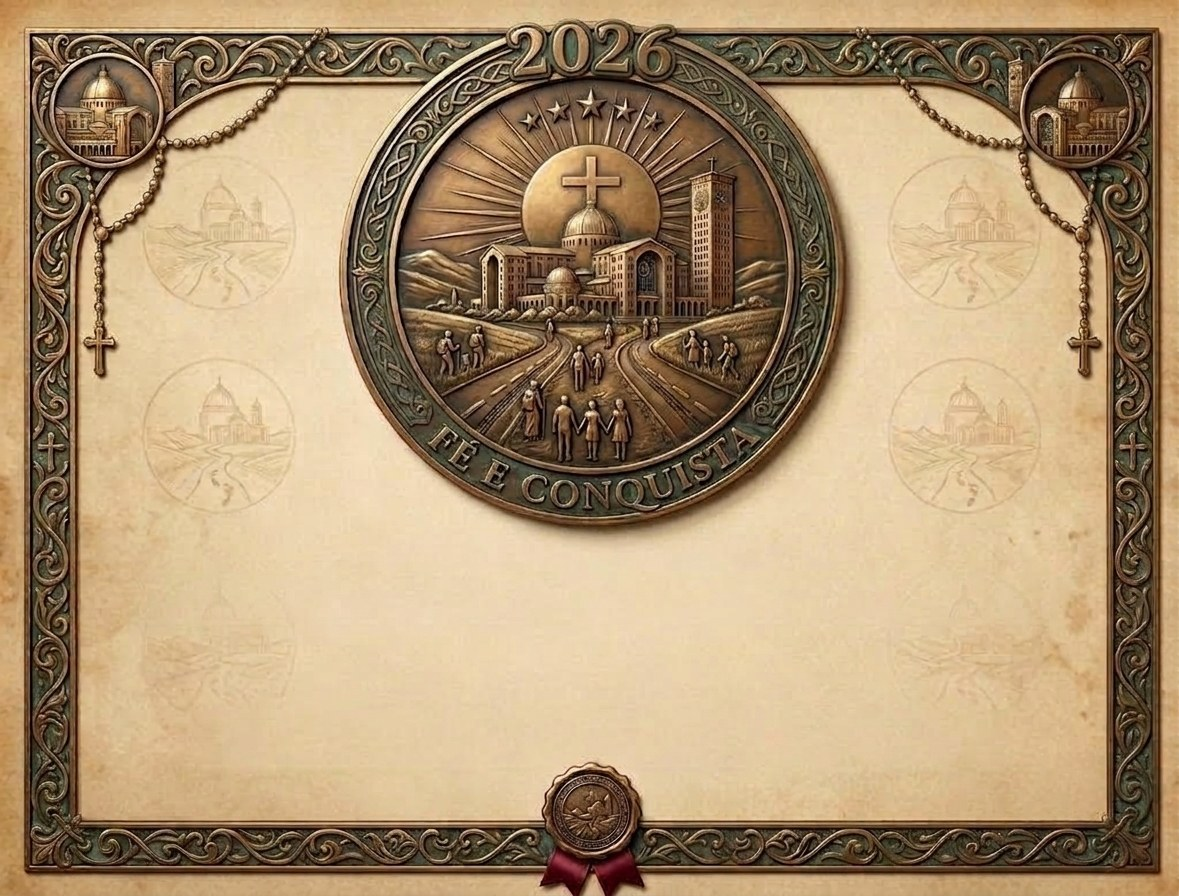
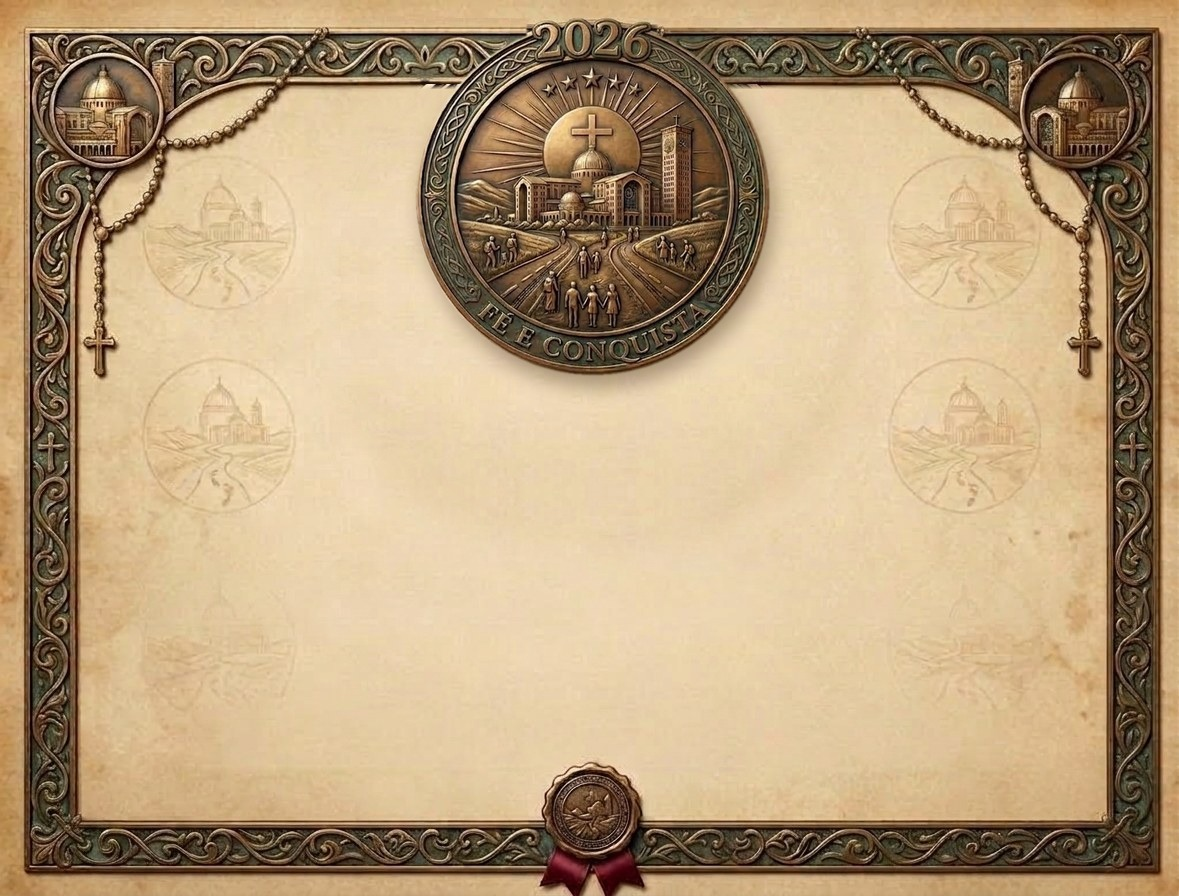
Add files via upload

Changed region(s): [[0.2748, 0.0, 0.7328, 0.625]]

diff --git a/src/components/CertificadoView.tsx b/src/components/CertificadoView.tsx
@@ -2,7 +2,7 @@
 
 import { useRef, useState } from "react";
 import { Printer, Download, FileText } from "lucide-react";
-import { MEIO_TRANSPORTE_LABELS } from "@/lib/constants";
+import { meioNaFrase, nomeNoCertificado, checkinsNoCertificado } from "@/lib/certificado-texto";
 import type { Certificado } from "@/types/database";
 
 // Proporção real da imagem-modelo (public/certificado/modelo-certificado.jpg),
@@ -27,35 +27,13 @@ export default function CertificadoView({ certificado: c }: { certificado: Certi
   const [gerandoPdf, setGerandoPdf] = useState(false);
   const [erro, setErro] = useState<string | null>(null);
 
-  const meioLabel =
-    c.meio_transporte === "outros"
-      ? c.meio_transporte_outro_desc || "outro meio de transporte"
-      : c.meio_transporte
-        ? MEIO_TRANSPORTE_LABELS[c.meio_transporte]
-        : "a pé";
-
-  // Até a Rodada 22, isto vinha de uma extração por regex de rota_nome
-  // ("Nome da rota (Origem → Aparecida)") que já não batia com nenhum
-  // certificado desde a Rodada 10, quando nomeRota() passou a mostrar só o
-  // nome da rota, sem essa parte entre parênteses — na prática, "origem"
-  // sempre dava null e a frase caía sempre no "até..." sem "de [origem]".
-  // Rodada 23: c.origem é a cidade de origem declarada pelo peregrino,
-  // gravada direto no certificado no momento da emissão.
+  // Rodada 58 — texto no formato pedido pelo usuário: "concluiu com êxito,
+  // nesta data, sua peregrinação (meio) até a Basílica..., saindo de
+  // (origem) no dia (data), com (x) check-in(s) ... e um tempo total de (tempo)."
+  const meio = meioNaFrase(c.meio_transporte, c.meio_transporte_outro_desc);
   const origem = c.origem;
   const dataInicio = formatarData(c.data_inicio);
-  const dataFim = formatarData(c.data_fim);
-  const mesmoDia = !!(c.data_inicio && c.data_fim && dataInicio === dataFim);
-
-  const trajetoTexto = origem ? `de ${origem} até` : "até";
-
-  let periodoTexto: string;
-  if (mesmoDia && dataInicio) {
-    periodoTexto = `no dia ${dataInicio}`;
-  } else if (dataInicio && dataFim) {
-    periodoTexto = `no período de ${dataInicio} a ${dataFim}${c.duracao_texto ? ` (${c.duracao_texto})` : ""}`;
-  } else {
-    periodoTexto = c.duracao_texto ? `em ${c.duracao_texto}` : "";
-  }
+  const checkins = checkinsNoCertificado(c.total_checkins);
 
   function imprimir() {
     // Marca só este certificado (útil quando há vários na mesma página) para
@@ -133,31 +111,36 @@ export default function CertificadoView({ certificado: c }: { certificado: Certi
 
         <div
           className="absolute flex flex-col items-center justify-center text-center"
-          style={{ top: "61%", bottom: "15%", left: "10%", right: "10%" }}
+          style={{ top: "44%", bottom: "13%", left: "10%", right: "10%" }}
         >
           <p
             className="text-neutral-600"
-            style={{ fontSize: "2.1cqw", letterSpacing: "0.05em" }}
+            style={{ fontSize: "2.3cqw", letterSpacing: "0.05em" }}
           >
             Certificamos que
           </p>
           <p
             className="font-serif font-bold text-neutral-900"
-            style={{ fontSize: "4cqw", lineHeight: 1.15, margin: "0.3cqw 0" }}
+            style={{ fontSize: "4.2cqw", lineHeight: 1.15, margin: "0.4cqw 0 1cqw", letterSpacing: "0.02em" }}
           >
-            {c.nome_peregrino}
+            {nomeNoCertificado(c.nome_peregrino)}
           </p>
           <p
             className="text-justify text-neutral-700"
-            style={{ fontSize: "1.9cqw", lineHeight: 1.35, maxWidth: "95%" }}
+            style={{ fontSize: "2.1cqw", lineHeight: 1.45, maxWidth: "95%" }}
           >
-            concluiu {meioLabel} sua peregrinação {trajetoTexto} a Basílica de
-            Nossa Senhora Aparecida-SP {periodoTexto}, com{" "}
-            <strong>{c.total_checkins}</strong> check-in(s) confirmados ao
-            longo da rota
-            {c.distancia_km != null && (
+            concluiu com êxito, nesta data, sua peregrinação{meio ? ` ${meio}` : ""} até a Basílica de
+            Nossa Senhora Aparecida-SP
+            {origem && (
               <>
-                , percorrendo aproximadamente <strong>{c.distancia_km} km</strong>
+                , saindo de <strong>{origem}</strong>
+              </>
+            )}
+            {dataInicio && <> no dia {dataInicio}</>}, com <strong>{checkins}</strong> check-in(s) confirmados
+            ao longo da rota
+            {c.duracao_texto && (
+              <>
+                {" "}e um tempo total de <strong>{c.duracao_texto}</strong>
               </>
             )}
             .

diff --git a/src/components/CertificadoGratuitoView.tsx b/src/components/CertificadoGratuitoView.tsx
@@ -3,7 +3,7 @@
 import { useRef, useState } from "react";
 import Image from "next/image";
 import { Printer, Download, FileText, Award } from "lucide-react";
-import { MEIO_TRANSPORTE_LABELS } from "@/lib/constants";
+import { meioNaFrase, nomeNoCertificado, checkinsNoCertificado } from "@/lib/certificado-texto";
 import type { Certificado } from "@/types/database";
 
 // Tamanho de página A4 paisagem, em mm — mesma orientação/proporção usada
@@ -47,22 +47,8 @@ export default function CertificadoGratuitoView({ certificado: c }: { certificad
   const [gerandoPdf, setGerandoPdf] = useState(false);
   const [erro, setErro] = useState<string | null>(null);
 
-  const meioLabel =
-    c.meio_transporte === "outros"
-      ? c.meio_transporte_outro_desc || "outro meio de transporte"
-      : c.meio_transporte
-        ? MEIO_TRANSPORTE_LABELS[c.meio_transporte]
-        : "a pé";
-
-  // Até a Rodada 22, isto vinha de uma extração por regex de rota_nome
-  // ("Nome da rota (Origem → Aparecida)") que já não batia com nenhum
-  // certificado desde a Rodada 10, quando nomeRota() passou a mostrar só o
-  // nome da rota, sem essa parte entre parênteses — na prática, "origem"
-  // sempre dava null e a frase caía sempre no "até..." sem "de [origem]".
-  // Rodada 23: c.origem é a cidade de origem declarada pelo peregrino,
-  // gravada direto no certificado no momento da emissão.
-  const origem = c.origem;
-  const trajetoTexto = origem ? `de ${origem} até` : "até";
+  // Rodada 58 — texto no formato pedido pelo usuário.
+  const meio = meioNaFrase(c.meio_transporte, c.meio_transporte_outro_desc);
 
   function imprimir() {
     ref.current?.classList.add("print-alvo");
@@ -117,15 +103,12 @@ export default function CertificadoGratuitoView({ certificado: c }: { certificad
 
   const dados = [
     { label: "Início", valor: formatarDataCurta(c.data_inicio) },
-    { label: "Término", valor: formatarDataCurta(c.data_fim) },
-    { label: "Tempo total", valor: c.duracao_texto || "—" },
-    { label: "Check-ins", valor: String(c.total_checkins ?? 0) },
-    // Só aparece em certificados emitidos depois da Rodada 22 — os
-    // anteriores não têm distância calculada e continuam com 4 colunas.
-    ...(c.distancia_km != null
-      ? [{ label: "Distância", valor: `≈ ${c.distancia_km} km` }]
-      : []),
+    { label: "Origem", valor: c.origem || "—" },
+    { label: "Chegada", valor: formatarDataCurta(c.data_fim) },
+    { label: "Tempo", valor: c.duracao_texto || "—" },
+    { label: "Check-ins", valor: String(checkinsNoCertificado(c.total_checkins)) },
   ];
+
 
   return (
     <div>
@@ -170,14 +153,14 @@ export default function CertificadoGratuitoView({ certificado: c }: { certificad
                 className="border-b-2 border-amber-200 px-[2cqw] pb-[0.4cqw] font-serif font-bold text-neutral-900"
                 style={{ fontSize: "3cqw", lineHeight: 1.15 }}
               >
-                {c.nome_peregrino}
+                {nomeNoCertificado(c.nome_peregrino)}
               </p>
               <p
-                className="mx-auto max-w-[85%] text-justify text-neutral-700"
-                style={{ fontSize: "1.35cqw", lineHeight: 1.4, marginTop: "0.6cqw" }}
+                className="mx-auto max-w-[85%] text-neutral-700"
+                style={{ fontSize: "1.45cqw", lineHeight: 1.45, marginTop: "0.6cqw", textAlign: "center" }}
               >
-                concluiu {meioLabel} sua peregrinação {trajetoTexto} a Basílica
-                de Nossa Senhora Aparecida-SP, conforme os dados abaixo.
+                concluiu com êxito a peregrinação{meio ? ` ${meio}` : ""} até a Basílica de Nossa Senhora
+                Aparecida-SP, conforme os dados abaixo.
               </p>
             </div>
 

diff --git a/src/app/rotas/page.tsx b/src/app/rotas/page.tsx
@@ -172,10 +172,11 @@ export default async function RotasPage({
           </Link>
         </div>
         <div className="card overflow-x-auto">
-          <table className="w-full min-w-[500px] text-sm">
+          <table className="w-full min-w-[580px] text-sm">
             <thead>
               <tr className="border-b border-neutral-200 text-left text-neutral-500 dark:border-neutral-800">
                 <th className="pb-2 pr-4">Km / sentido</th>
+                <th className="pb-2 pr-4">Foto</th>
                 <th className="pb-2 pr-4">Local</th>
                 <th className="pb-2 pr-4">Risco</th>
                 <th className="pb-2">Observações</th>
@@ -187,17 +188,19 @@ export default async function RotasPage({
                   <td className="py-2 pr-4 whitespace-nowrap">
                     {kmSentidoLabel(r.km_referencia, r.sentido)}
                   </td>
-                  <td className="py-2 pr-4 font-medium">
-                    {r.titulo}
-                    {/* Rodada 57 — foto do local (toque para ampliar), logo abaixo do nome. */}
-                    {r.foto_url && (
+                  {/* Rodada 58 — foto do local numa coluna própria, logo depois do km (toque para ampliar). */}
+                  <td className="py-2 pr-4">
+                    {r.foto_url ? (
                       <FotoAmpliavel
                         src={r.foto_url}
                         alt={`Foto do local: ${r.titulo}`}
-                        className="mt-1.5 block h-16 w-24 overflow-hidden rounded-lg"
+                        className="block h-14 w-20 overflow-hidden rounded-lg"
                       />
+                    ) : (
+                      <span className="text-neutral-300 dark:text-neutral-700">—</span>
                     )}
                   </td>
+                  <td className="py-2 pr-4 font-medium">{r.titulo}</td>
                   <td className={`py-2 pr-4 font-medium ${riscoColor(r.nivel_risco)}`}>
                     {NIVEL_RISCO_LABELS[r.nivel_risco]}
                   </td>
@@ -208,7 +211,7 @@ export default async function RotasPage({
               ))}
               {riscosOrdenados.length === 0 && (
                 <tr>
-                  <td colSpan={4} className="py-4 text-center text-neutral-400">
+                  <td colSpan={5} className="py-4 text-center text-neutral-400">
                     Nenhum ponto de risco cadastrado ainda nesta rota.
                   </td>
                 </tr>

diff --git a/src/lib/certificado-texto.ts b/src/lib/certificado-texto.ts
@@ -1,0 +1,27 @@
+import type { MeioTransporte } from "@/types/database";
+
+// Rodada 58 — textos padronizados dos certificados (grátis e Plus), no
+// formato pedido pelo usuário.
+
+// Como o meio de transporte entra na frase: "a pé", "de bicicleta", "de
+// moto", "a cavalo"... Para "outros", usa o que a pessoa descreveu.
+export function meioNaFrase(meio: MeioTransporte | null | undefined, outroDesc?: string | null): string {
+  if (!meio || meio === "a_pe") return "a pé";
+  if (meio === "bicicleta") return "de bicicleta";
+  if (meio === "moto") return "de moto";
+  const desc = (outroDesc ?? "").trim();
+  if (!desc) return "";
+  if (/cavalo/i.test(desc)) return "a cavalo";
+  if (/^(a|à|de|do|da|em|no|na)\s/i.test(desc)) return desc.toLowerCase();
+  return `de ${desc.toLowerCase()}`;
+}
+
+// Nome completo em caixa alta.
+export function nomeNoCertificado(nome: string): string {
+  return nome.trim().replace(/\s+/g, " ").toLocaleUpperCase("pt-BR");
+}
+
+// Todo certificado tem pelo menos 2 check-ins: o do início e o de Aparecida.
+export function checkinsNoCertificado(total: number | null | undefined): number {
+  return Math.max(2, total ?? 0);
+}

diff --git a/src/app/layout.tsx b/src/app/layout.tsx
@@ -29,8 +29,9 @@ const urlDoSite =
     : "http://localhost:3000");
 
 const tituloCompartilhamento = "O Peregrino — apoio a quem caminha até Aparecida";
+// Rodada 58 — texto novo pedido pelo usuário (o título e a imagem continuam iguais).
 const descricaoCompartilhamento =
-  "Gratuito. Pontos de apoio no mapa, rotas, alertas de risco e botão de emergência para quem caminha pela Via Dutra até o Santuário de Aparecida. Abre direto no navegador — não precisa baixar nada da loja.";
+  "Planeje sua peregrinação, registre e receba um certificado para compartilhar! Crie sua identificação de Peregrino. Receba e mande mensagens de ocorrências no trajeto.";
 
 export const metadata: Metadata = {
   metadataBase: new URL(urlDoSite),

diff --git a/src/app/certificado/page.tsx b/src/app/certificado/page.tsx
@@ -146,7 +146,7 @@ export default async function CertificadoPage() {
             return (
               <div key={c.id} id={`certificado-${c.id}`} className="flex scroll-mt-6 flex-col gap-4">
                 <h3 className="text-lg font-bold text-amber-800 dark:text-amber-500">Certificado</h3>
-                <CertificadoGratuitoView certificado={c} />
+                <CertificadoGratuitoView certificado={comOrigem} />
 
                 <div
                   id={`romaria-plus-${c.id}`}

diff --git a/src/app/instalar/page.tsx b/src/app/instalar/page.tsx
@@ -47,7 +47,7 @@ export default function InstalarPage() {
       try {
         await navigator.share({
           title: "O Peregrino",
-          text: "App de apoio para quem caminha pela Rodovia Dutra até Aparecida-SP",
+          text: "Planeje sua peregrinação, registre e receba um certificado para compartilhar! Crie sua identificação de Peregrino. Receba e mande mensagens de ocorrências no trajeto.",
           url,
         });
       } catch {
